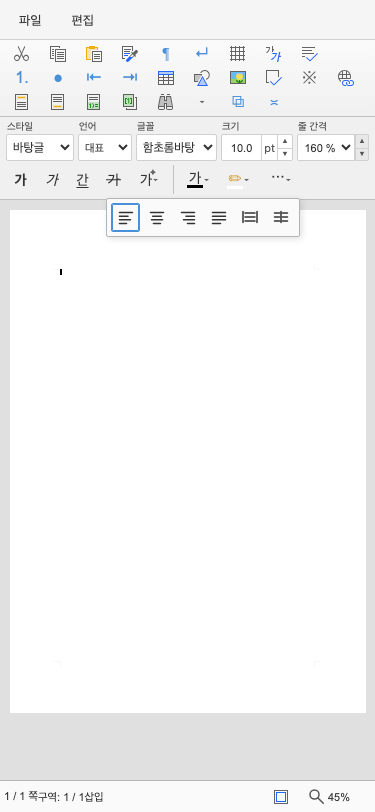
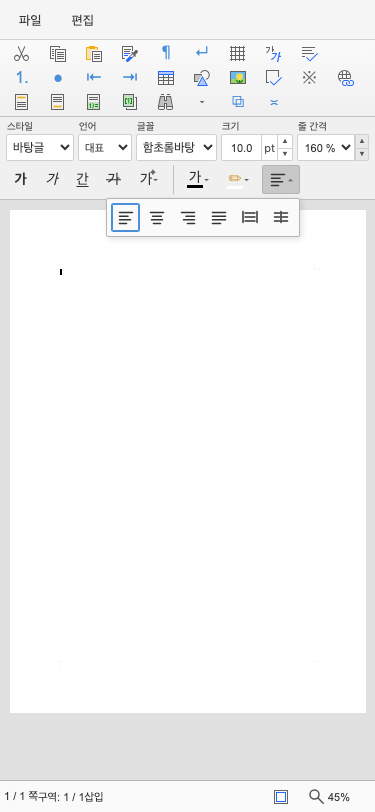
fix(studio): #6118 서식 더보기 의미를 명확히 한다

diff --git a/rhwp-studio/src/ui/style-toolbar-overflow.ts b/rhwp-studio/src/ui/style-toolbar-overflow.ts
@@ -3,6 +3,15 @@ export const STYLE_TOOLBAR_COMMAND_INLINE_MIN = 460;
 export const STYLE_TOOLBAR_OVERFLOW_QUERY = `(max-width: ${STYLE_TOOLBAR_COMMAND_INLINE_MIN - 1}px)`;
 
 const PARAGRAPH_BUTTON_SELECTOR = '.sb-paragraph-ribbon-group .sb-btn';
+const DEFAULT_ALIGNMENT_ICON = 'sb-al-left';
+const ALIGNMENT_ICON_CLASSES = [
+  'sb-al-left',
+  'sb-al-center',
+  'sb-al-right',
+  'sb-al-justify',
+  'sb-al-distribute',
+  'sb-al-split',
+] as const;
 
 /**
  * 좁은 화면에서 문단 명령을 같은 DOM 그대로 더보기 panel에 노출한다.
@@ -29,7 +38,9 @@ export class StyleToolbarOverflowController {
   private readonly onPanelClick = (event: MouseEvent): void => {
     const target = event.target;
     if (!(target instanceof Element) || !target.closest(PARAGRAPH_BUTTON_SELECTOR)) return;
-    this.setOpen(false, false, true);
+    this.setOpen(false);
+    // 문단 명령의 mousedown dispatch가 편집기 focus를 갱신한 뒤 trigger로 복귀시킨다.
+    requestAnimationFrame(() => this.trigger.focus());
   };
 
   private readonly onDocumentPointerDown = (event: PointerEvent): void => {
@@ -52,6 +63,7 @@ export class StyleToolbarOverflowController {
   constructor(
     private readonly host: HTMLElement,
     private readonly trigger: HTMLButtonElement,
+    private readonly triggerIcon: HTMLElement,
     private readonly panel: HTMLElement,
     matchMedia: (query: string) => MediaQueryList = window.matchMedia.bind(window),
   ) {
@@ -99,18 +111,28 @@ export class StyleToolbarOverflowController {
   }
 
   private syncIndicator(): void {
-    const hasActiveCommand = this.paragraphButtons.some(button =>
+    const activeCommand = this.paragraphButtons.find(button =>
       button.classList.contains('active') || button.getAttribute('aria-pressed') === 'true',
     );
+    const activeCommandIcon = activeCommand?.querySelector<HTMLElement>('.sb-align');
+    const activeIconClass = ALIGNMENT_ICON_CLASSES.find(iconClass =>
+      activeCommandIcon?.classList.contains(iconClass),
+    ) ?? DEFAULT_ALIGNMENT_ICON;
     const allCommandsDisabled = this.paragraphButtons.length > 0
       && this.paragraphButtons.every(button => button.disabled);
 
-    this.trigger.classList.toggle('active', hasActiveCommand);
+    this.triggerIcon.classList.remove(...ALIGNMENT_ICON_CLASSES);
+    this.triggerIcon.classList.add(activeIconClass);
+    this.trigger.classList.toggle('active', !!activeCommand);
     this.trigger.disabled = allCommandsDisabled;
-    this.trigger.setAttribute(
-      'aria-label',
-      hasActiveCommand ? '문단 정렬 더보기, 현재 정렬 포함' : '문단 정렬 더보기',
-    );
+    const currentAlignment = activeCommand?.title;
+    const accessibleLabel = currentAlignment
+      ? `문단 정렬 더보기, 현재 ${currentAlignment}`
+      : '문단 정렬 더보기';
+    this.trigger.setAttribute('aria-label', accessibleLabel);
+    this.trigger.title = currentAlignment
+      ? `문단 정렬 더보기 (현재 ${currentAlignment})`
+      : '문단 정렬 더보기';
   }
 
   dispose(): void {
@@ -128,9 +150,10 @@ export class StyleToolbarOverflowController {
 export function initStyleToolbarOverflow(container: HTMLElement): StyleToolbarOverflowController {
   const host = container.querySelector<HTMLElement>('.sb-overflow-host');
   const trigger = container.querySelector<HTMLButtonElement>('#btn-style-overflow');
+  const triggerIcon = container.querySelector<HTMLElement>('#style-overflow-current-icon');
   const panel = container.querySelector<HTMLElement>('#style-overflow-panel');
-  if (!host || !trigger || !panel) {
+  if (!host || !trigger || !triggerIcon || !panel) {
     throw new Error('서식 도구 모음 더보기 DOM 계약이 누락되었습니다.');
   }
-  return new StyleToolbarOverflowController(host, trigger, panel);
+  return new StyleToolbarOverflowController(host, trigger, triggerIcon, panel);
 }

diff --git a/rhwp-studio/src/ui/toolbar.ts b/rhwp-studio/src/ui/toolbar.ts
@@ -49,6 +49,7 @@ export class Toolbar {
   private btnLsUp: HTMLButtonElement;
   private btnLsDown: HTMLButtonElement;
   private fontLang: HTMLSelectElement;
+  private alignButtons: Array<{ button: HTMLButtonElement; alignment: string }> = [];
 
   private enabled = false;
   private styleDropdownInitialized = false;
@@ -437,17 +438,18 @@ export class Toolbar {
 
   /** 문단 정렬 버튼 이벤트 → 커맨드 디스패치 */
   private setupAlignButtons(): void {
-    const aligns: [string, string][] = [
-      ['#btn-align-left', 'format:align-left'],
-      ['#btn-align-center', 'format:align-center'],
-      ['#btn-align-right', 'format:align-right'],
-      ['#btn-align-justify', 'format:align-justify'],
-      ['#btn-align-distribute', 'format:align-distribute'],
-      ['#btn-align-split', 'format:align-split'],
+    const aligns: [string, string, string][] = [
+      ['#btn-align-left', 'left', 'format:align-left'],
+      ['#btn-align-center', 'center', 'format:align-center'],
+      ['#btn-align-right', 'right', 'format:align-right'],
+      ['#btn-align-justify', 'justify', 'format:align-justify'],
+      ['#btn-align-distribute', 'distribute', 'format:align-distribute'],
+      ['#btn-align-split', 'split', 'format:align-split'],
     ];
-    for (const [sel, cmdId] of aligns) {
+    for (const [sel, alignment, cmdId] of aligns) {
       const btn = this.container.querySelector(sel) as HTMLButtonElement;
       if (btn) {
+        this.alignButtons.push({ button: btn, alignment });
         btn.addEventListener('mousedown', (e) => {
           e.preventDefault();
           this.dispatcher.dispatch(cmdId);
@@ -565,6 +567,10 @@ export class Toolbar {
 
   /** 커서 위치의 문단 속성(줄간격 등)을 도구 모음에 반영한다 */
   private updateParaState(props: ParaProperties): void {
+    for (const { button, alignment } of this.alignButtons) {
+      this.setActive(button, props.alignment === alignment);
+    }
+
     if (props.lineSpacingType === 'Percent' && props.lineSpacing !== undefined) {
       const val = Math.round(props.lineSpacing);
       this.ensureLsOption(val);

diff --git a/rhwp-studio/tests/style-toolbar-overflow.test.ts b/rhwp-studio/tests/style-toolbar-overflow.test.ts
@@ -5,6 +5,7 @@ import test from 'node:test';
 const html = readFileSync(new URL('../index.html', import.meta.url), 'utf8');
 const styles = readFileSync(new URL('../src/styles/style-bar.css', import.meta.url), 'utf8');
 const source = readFileSync(new URL('../src/ui/style-toolbar-overflow.ts', import.meta.url), 'utf8');
+const toolbar = readFileSync(new URL('../src/ui/toolbar.ts', import.meta.url), 'utf8');
 
 test('style toolbar breakpoints share the measured Stage 1 constants', () => {
   assert.match(source, /STYLE_TOOLBAR_FULL_ROW_MIN = 976/);
@@ -38,7 +39,19 @@ test('overflow controller owns keyboard, outside-click, focus, and active-state 
   assert.match(source, /event\.key !== 'Escape'/);
   assert.match(source, /document\.addEventListener\('pointerdown'/);
   assert.match(source, /requestAnimationFrame\(\(\) => this\.paragraphButtons/);
+  assert.match(source, /requestAnimationFrame\(\(\) => this\.trigger\.focus\(\)\)/);
   assert.match(source, /new MutationObserver/);
   assert.match(source, /button\.classList\.contains\('active'\)/);
+  assert.match(source, /this\.triggerIcon\.classList\.remove\(\.\.\.ALIGNMENT_ICON_CLASSES\)/);
+  assert.match(source, /문단 정렬 더보기, 현재 \$\{currentAlignment\}/);
   assert.match(source, /dispose\(\): void/);
+});
+
+test('cursor paragraph alignment selects the source button mirrored by the overflow trigger', () => {
+  assert.match(toolbar, /private alignButtons: Array<\{ button: HTMLButtonElement; alignment: string \}>/);
+  assert.match(toolbar, /this\.alignButtons\.push\(\{ button: btn, alignment \}\)/);
+  assert.match(
+    toolbar,
+    /for \(const \{ button, alignment \} of this\.alignButtons\) \{\s*this\.setActive\(button, props\.alignment === alignment\);/,
+  );
 });

diff --git a/rhwp-studio/index.html b/rhwp-studio/index.html
@@ -631,7 +631,7 @@
 
         <div class="sb-overflow-host">
           <button type="button" id="btn-style-overflow" class="sb-btn sb-has-arrow" aria-controls="style-overflow-panel" aria-expanded="false" aria-label="문단 정렬 더보기" title="문단 정렬 더보기">
-            <span class="sb-overflow-icon" aria-hidden="true">⋯</span><span class="sb-dd" aria-hidden="true">▾</span>
+            <span id="style-overflow-current-icon" class="sb-align sb-al-left sb-overflow-current-icon" aria-hidden="true"></span><span class="sb-dd" aria-hidden="true">▾</span>
           </button>
           <div id="style-overflow-panel" class="sb-overflow-panel" role="group" aria-label="문단 정렬">
             <div class="sb-command-band sb-paragraph-band">

diff --git a/rhwp-studio/tests/style-toolbar-grouped-ribbon.test.ts b/rhwp-studio/tests/style-toolbar-grouped-ribbon.test.ts
@@ -64,6 +64,10 @@ test('paragraph commands keep one DOM authority across inline and overflow layou
     buttonMarkup('btn-style-overflow'),
     /aria-controls="style-overflow-panel"[^>]*aria-expanded="false"/,
   );
+  assert.match(buttonMarkup('btn-style-overflow'), /id="style-overflow-current-icon"/);
+  assert.match(buttonMarkup('btn-style-overflow'), /class="sb-align sb-al-left sb-overflow-current-icon"/);
+  assert.match(buttonMarkup('btn-style-overflow'), /class="sb-dd"/);
+  assert.doesNotMatch(buttonMarkup('btn-style-overflow'), /⋯/);
   assert.match(
     html,
     /id="style-overflow-panel"[^>]*role="group"[^>]*aria-label="문단 정렬"/,

diff --git a/rhwp-studio/src/styles/style-bar.css b/rhwp-studio/src/styles/style-bar.css
@@ -124,10 +124,17 @@
   display: none;
 }
 
-.sb-overflow-icon {
-  font-size: var(--font-size-xl);
-  line-height: 1;
-  transform: translateY(-2px);
+.sb-overflow-current-icon {
+  flex: none;
+}
+
+.sb-overflow-host.open > #btn-style-overflow {
+  background: var(--ui-active);
+  border-color: var(--ui-border-strong);
+}
+
+.sb-overflow-host.open > #btn-style-overflow .sb-dd {
+  transform: rotate(180deg);
 }
 
 /* 구분선 */

diff --git a/mydocs/working/task_m100_6118_stage3.md b/mydocs/working/task_m100_6118_stage3.md
@@ -61,7 +61,7 @@ Studio chrome의 DOM/CSS/접근성 변경이며 renderer·layout·typeset·paint
 | --- | --- |
 | `npx tsc --noEmit` | 통과 |
 | Stage 3 focused 정적 계약 | 27 passed, 0 failed |
-| `npm test` | 1,140 passed, 0 failed, 1 skipped |
+| `npm test` | 1,141 passed, 0 failed, 1 skipped |
 | `npm run build` | 통과 |
 | responsive/theme E2E | 388 passed, 0 failed |
 | `git diff --check` | 통과 |
@@ -79,6 +79,14 @@ checkout에서 파생 suite 준비 후 다시 실행한다.
 - [x] field·dropdown·color·paragraph 더보기를 실제로 조작했다.
 - [x] oldschool 37px 회귀를 36px로 수정하고 회귀 테스트를 추가했다.
 - [x] 대표 화면과 재현 가능한 자동 검증 근거를 남겼다.
+
+## 7. 사용자 시각 검토 후속 — 문단 정렬형 더보기
+
+초기 `⋯ + ▾` 트리거는 일반 overflow와 dropdown 의미가 겹쳐 숨겨진 명령을 설명하지 못했다. 사용자
+시각 검토를 반영해 기존 정렬 SVG mask를 재사용한 `현재 문단 정렬 아이콘 + ▾`로 교체했다. 활성 정렬이
+바뀌면 trigger 아이콘과 `aria-label`·title이 함께 바뀌며, panel이 열리면 화살표와 버튼 표면도 열린
+상태를 표시한다. 문단 명령 실행 뒤 다음 frame에 trigger focus를 확정해 편집기 focus 갱신과의 경쟁도
+막았다. focused 28건, TypeScript, build와 전체 responsive/theme E2E 388건이 다시 통과했다.
 
 #6118의 로컬 구현과 Stage 3는 완료했다. 다만 원격 PR은 지금 만들지 않는다. 다음 작업인 #6138은 같은
 브랜치에서 별도 계획·구현·커밋으로 구분하고, 완료 뒤 12개 viewport 통합 매트릭스를 다시 실행한다.

diff --git a/mydocs/report/task_m100_6118_report.md b/mydocs/report/task_m100_6118_report.md
@@ -15,10 +15,12 @@
 - 459~375px: 같은 2행을 유지하고 paragraph 명령만 더보기 panel로 표시
 - 모든 구간에서 `#style-bar`와 page-level 가로 overflow 0
 - 기존 field/command ID, 순서, listener, label, active/disabled authority 재사용
+- 좁은 화면의 모호한 `⋯ + ▾`를 현재 문단 정렬 아이콘과 `▾` 조합으로 교체
 
 더보기는 paragraph command를 복제하지 않는다. 같은 DOM을 inline 또는 panel에 표시하므로 상태와
 명령 wiring이 분기되지 않는다. click·ArrowDown·Escape·외부 pointer·명령 실행과 focus 복귀 계약도
-고정했다.
+고정했다. 활성 정렬에 맞춰 trigger 아이콘과 접근성 설명이 바뀌고 panel이 열린 동안에는 화살표와 버튼
+표면이 열린 상태를 표시한다.
 
 ## 2. 단계별 산출물
 
@@ -44,7 +46,7 @@ default/flat/oldschool × light/dark의 18개 경계 화면도 같은 E2E가 생
 | 게이트 | 결과 |
 | --- | --- |
 | TypeScript | 통과 |
-| Studio 전체 test | 1,140 passed, 0 failed, 1 skipped |
+| Studio 전체 test | 1,141 passed, 0 failed, 1 skipped |
 | Studio production build | 통과 |
 | responsive/theme browser E2E | 388 passed, 0 failed |
 | 실제 인앱 브라우저 375px smoke | panel 열림·첫 명령 focus·overflow 0 |
